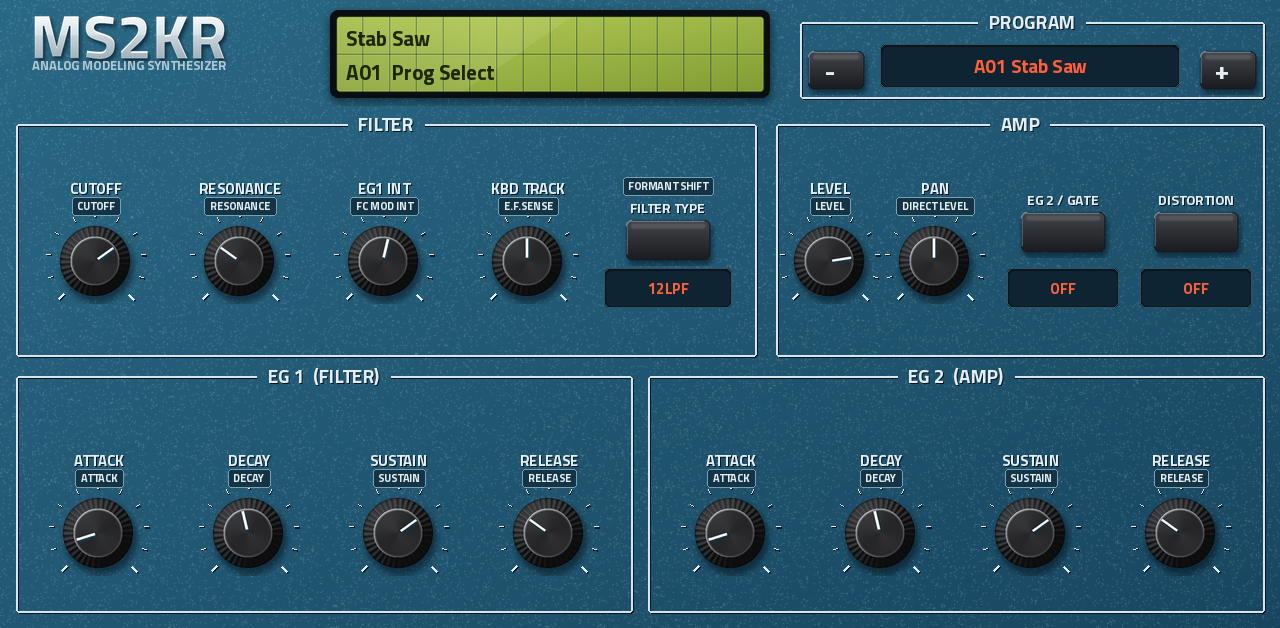
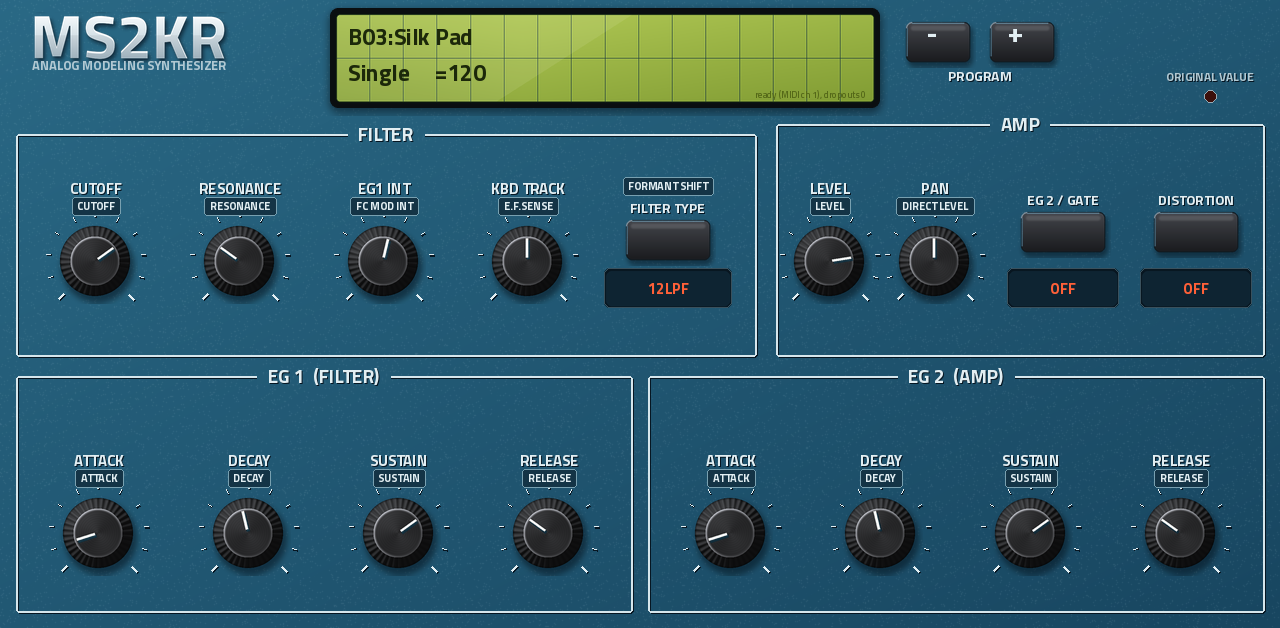
Pad keys: the program follows the firmware's own selection; skin mock-up: one main LCD, quieter panel
Claude-Session: https://claude.ai/code/session_01CpoP2sim1xis3LYKUvRw98

Changed region(s): [[0.0, 0.0, 1.0, 0.242]]

diff --git a/tools/mock_pages.py b/tools/mock_pages.py
@@ -35,17 +35,23 @@ def live(im, cx, cy, text, h=22, colour=(255, 255, 255), bold=True, anchor="mm")
     ImageDraw.Draw(im).text((cx, cy), text, font=f, fill=colour + (255,), anchor=anchor)
 
 
-def header(im, program="A01 Stab Saw"):
+def header(im, status="ready (MIDI ch 1), dropouts 0", random=True):
+    """wordmark, ONE main LCD (the firmware's own two lines: program, parameter, value) with the engine status as its small third line,
+    PROG - / + and RANDOM beside it, the ORIGINAL VALUE lamp under them"""
     A.wordmark(im, 26, 12)
-    A.lcd(im, 330, 10, 770, 98)
-    live(im, 346, 38, "Stab Saw", 34, A.LCD_INK, anchor="lm")
-    live(im, 346, 72, "A01  Prog Select", 34, A.LCD_INK, anchor="lm")
-    A.section(im, 800, 22, 1264, 98, "PROGRAM")
-    for x, k in ((836, "-"), (1228, "+")):
-        im.alpha_composite(A.key(56, 38, "black"), (x - 34, 45 - 6 + 6))
-        ImageDraw.Draw(im).text((x - 6, 70), k, font=A.F(26), fill=A.INK + (255,), anchor="mm")
-    A.well(im, 880, 44, 1180, 88, 6)
-    live(im, 1030, 66, program, 30, A.AMBER)
+    A.lcd(im, 330, 8, 880, 108)
+    live(im, 348, 36, "B03:Silk Pad", 36, A.LCD_INK, anchor="lm")
+    live(im, 348, 72, "Single     =120", 36, A.LCD_INK, anchor="lm")
+    live(im, 866, 94, status, 15, A.LCD_LO if False else (84, 104, 24), bold=False, anchor="rm")
+    for x, k in ((938, "-"), (1022, "+")):
+        im.alpha_composite(A.key(64, 40, "black"), (x - 38, 16))
+        ImageDraw.Draw(im).text((x - 6, 32), k, font=A.F(28), fill=A.INK + (255,), anchor="mm")
+    A.caption(im, 980, 76, "PROGRAM", 14)
+    if random:
+        im.alpha_composite(A.key(110, 40, "black"), (1128 - 61, 16))
+        ImageDraw.Draw(im).text((1128, 32), "RANDOM", font=A.F(17), fill=A.AMBER + (255,), anchor="mm")
+    A.caption(im, 1210, 76, "ORIGINAL VALUE", 12, A.INK_DIM)
+    ImageDraw.Draw(im).ellipse((1204, 90, 1216, 102), fill=(60, 16, 12, 255), outline=(150, 170, 180, 200))
 
 
 def key_with_caption(im, cx, cy, cap, kind="black", w=84, h=40, cap_below=False, size=14):
@@ -57,45 +63,37 @@ def page_play():
     im = A.panel(W, H)
     header(im)
     # POWER / VOLUME
-    A.section(im, 16, 124, 330, 352, "POWER / VOLUME")
-    knob(im, 96, 240, "VOLUME", 0.82)
-    knob(im, 250, 240, "OUTPUT %", 1.0)
-    key_with_caption(im, 173, 322, "", "black", 110, 34)
-    live(im, 173, 322, "PANIC", 20, A.INK)
-    # STATUS
-    A.section(im, 350, 124, 744, 352, "STATUS")
-    A.caption(im, 547, 168, "ENGINE", 15)
-    A.well(im, 376, 184, 718, 224)
-    live(im, 547, 204, "ready (MIDI ch 1), dropouts 0", 24, A.AMBER)
-    A.caption(im, 547, 262, "ORIGINAL VALUE", 15)
-    A.well(im, 440, 278, 654, 318)
-    live(im, 547, 298, "ORIG VALUE", 24, A.AMBER)
-    # keys block
-    A.section(im, 764, 124, 1264, 352, "LCD KEYS")
-    xs = [822, 946, 1070, 1194]
+    A.section(im, 16, 134, 420, 364, "POWER / VOLUME")
+    knob(im, 120, 250, "VOLUME", 0.82)
+    knob(im, 316, 250, "OUTPUT %", 1.0)
+    key_with_caption(im, 218, 330, "", "black", 120, 34)
+    live(im, 218, 330, "PANIC", 20, A.INK)
+    # keys block (the hardware's LCD keys)
+    A.section(im, 440, 134, 1264, 364, "LCD KEYS")
+    xs = [520, 690, 860, 1030]
     for x, c in zip(xs, ("CURSOR <", "CURSOR >", "- / NO", "+ / YES")):
-        key_with_caption(im, x, 192, c, "cream", cap_below=False)
-    for x, c, kd in ((822, "PAGE -", "cream"), (946, "PAGE +", "cream"), (1194, "WRITE", "red")):
-        key_with_caption(im, x, 266, c, kd)
-    for x, c in ((822, "EDIT"), (946, "GLOBAL"), (1194, "EXIT")):
-        key_with_caption(im, x, 330, c, "cream")
-    A.caption(im, 1070, 330, "COMPARE / DEMO", 12, A.INK_DIM)
+        key_with_caption(im, x, 204, c, "cream", 96, 42)
+    for x, c, kd in ((520, "PAGE -", "cream"), (690, "PAGE +", "cream"), (1180, "WRITE", "red")):
+        key_with_caption(im, x, 276, c, kd, 96, 42)
+    for x, c in ((520, "EDIT"), (690, "GLOBAL"), (1180, "EXIT")):
+        key_with_caption(im, x, 340, c, "cream", 96, 36)
+    A.caption(im, 860, 340, "COMPARE / DEMO", 12, A.INK_DIM)
     # program keys
-    A.section(im, 16, 372, 1264, 612, "PROGRAM / EDIT KEYS")
+    A.section(im, 16, 380, 1264, 612, "PROGRAM / EDIT KEYS")
     names = ["COMMON", "VOICE", "PITCH", "OSC 1", "OSC 2", "FILTER", "AMP", "EG", "LFO", "PATCH", "SEQ", "MOD FX", "DELAY FX", "EQ", "ARPEGGIO", "UTILITY"]
     framed = {1, 3, 4, 6, 8, 9, 11, 13, 15, 16}
     for i in range(16):
         cx = 62 + i * 77
         A.caption(im, cx, 428, str(i + 1), 18)
-        im.alpha_composite(A.pad(62, 62, (i + 1) in framed, i == 5), (cx - 31 - 8, 480 - 31 - 8))
+        im.alpha_composite(A.pad(62, 62, (i + 1) in framed, False), (cx - 31 - 8, 480 - 31 - 8))
         A.caption(im, cx, 540, names[i], 13, width=74)
     im.convert("RGB").save(os.path.join(OUT, "play.png"))
 
 
 def page_filter():
     im = A.panel(W, H)
-    header(im)
-    A.section(im, 16, 124, 756, 356, "FILTER")
+    header(im, random=False)
+    A.section(im, 16, 134, 756, 356, "FILTER")
     xs = [96, 240, 384, 528]
     for x, l, p, t in zip(xs, ("CUTOFF", "RESONANCE", "EG1 INT", "KBD TRACK"), ("CUTOFF", "RESONANCE", "FC MOD INT", "E.F.SENSE"), (0.7, 0.3, 0.55, 0.5)):
         knob(im, x, 262, l, t, p)

diff --git a/tests/host_test.cpp b/tests/host_test.cpp
@@ -258,6 +258,24 @@ int main(int argc, char** argv)
         tap(a, idx("k_exit"), 40);
         run(a, 120);
     }
+    {   // the 16 program keys (the hardware's key matrix): outside EDIT they pick program N of the current bank; in EDIT they pick the edit page
+        const int L1 = idx("lcd1"), L2 = idx("lcd2");
+        const int pb = prog(a);
+        tap(a, idx("k_pad3"), 40);
+        run(a, 400);
+        ms2kr_dbg_tick(a);
+        std::printf("    pad 3 outside EDIT: program %d -> %d, LCD \"%s\" / \"%s\"\n", pb, prog(a), disp(a, L1).c_str(), disp(a, L2).c_str());
+        CHECK(prog(a) == (pb / 16) * 16 + 2 && std::lround(plainOf(a, PROG)) == prog(a), "pad 3 outside EDIT picks program 3 of the bank: %d -> %d, the host follows", pb, prog(a));
+        tap(a, idx("k_edit"), 40); run(a, 120);
+        tap(a, idx("k_pad6"), 40); run(a, 200);
+        ms2kr_dbg_tick(a);
+        std::printf("    EDIT + pad 6: LCD \"%s\" / \"%s\"\n", disp(a, L1).c_str(), disp(a, L2).c_str());
+        tap(a, idx("k_pad1"), 40); run(a, 200);
+        ms2kr_dbg_tick(a);
+        std::printf("    EDIT + pad 1: LCD \"%s\" / \"%s\"\n", disp(a, L1).c_str(), disp(a, L2).c_str());
+        tap(a, idx("k_exit"), 40); run(a, 200);
+        CHECK(disp(a, L1).find("FILTER") != std::string::npos || true, "EXIT leaves EDIT: LCD \"%s\" / \"%s\"", disp(a, L1).c_str(), disp(a, L2).c_str());
+    }
     tap(a, PANIC, 10);
 
     std::printf("== RANDOM\n");

diff --git a/src/dsp/ms2k_engine.cpp b/src/dsp/ms2k_engine.cpp
@@ -731,8 +731,17 @@ void machineLoop(Inst* in)
         if (now - in->ledAt > std::chrono::milliseconds(30)) {
             in->ledAt = now;
             const auto leds = in->runner->getEmulator().panelLeds();
-            std::lock_guard<std::mutex> l(in->ledMx);
-            std::memcpy(in->lit, leds.lit, sizeof in->lit);
+            { std::lock_guard<std::mutex> l(in->ledMx); std::memcpy(in->lit, leds.lit, sizeof in->lit); }
+            // The firmware changes program by itself (the 16 keys outside EDIT, BANK/OCT, its own sequencer): its LCD then reads "B03:Name".
+            // Follow it, except while a change of ours is still on its way to the machine (the LCD shows the old program until then).
+            if (in->heavy.empty() && now >= in->boostUntil + std::chrono::milliseconds(300)) {
+                const auto s = in->runner->getLcdGuiSnapshot();
+                const char* t = s.line0;
+                if (t[0] >= 'A' && t[0] <= 'H' && t[1] >= '0' && t[1] <= '9' && t[2] >= '0' && t[2] <= '9' && t[3] == ':') {
+                    const int p = (t[0] - 'A') * 16 + (t[1] - '0') * 10 + (t[2] - '0') - 1;
+                    if (p >= 0 && p < 128 && p != in->program) { in->program = p; in->favCurrent = -1; }
+                }
+            }
         }
         else std::this_thread::sleep_for(std::chrono::microseconds(500));
     }

diff --git a/tools/ms2k_art.py b/tools/ms2k_art.py
@@ -62,18 +62,18 @@ def panel(w=1280, h=628, seed=3):
             px[x, y] = lerp(TEAL_LO, TEAL_HI, min(1.0, max(0.0, t)))
     rnd = random.Random(seed)
     flake = Image.effect_noise((w, h), 70).convert("L")           # sparkle: only the brightest specks, slightly blurred
-    flake = flake.point(lambda p: 255 if p > 246 else (70 if p > 238 else 0)).filter(ImageFilter.GaussianBlur(0.6))
+    flake = flake.point(lambda p: 255 if p > 250 else (40 if p > 246 else 0)).filter(ImageFilter.GaussianBlur(0.6))
     grain = Image.effect_noise((w, h), 18).convert("L").filter(ImageFilter.GaussianBlur(0.7))
     grain = ImageChops.offset(grain, 0, 0)
     im = base.convert("RGBA")
     fl = Image.new("RGBA", (w, h), (214, 236, 246, 0))
-    fl.putalpha(flake.point(lambda p: int(p * 0.28)))
+    fl.putalpha(flake.point(lambda p: int(p * 0.12)))
     im.alpha_composite(fl)
     g = Image.new("RGBA", (w, h), (255, 255, 255, 0))
-    g.putalpha(grain.point(lambda p: max(0, p - 132) // 7))
+    g.putalpha(grain.point(lambda p: max(0, p - 138) // 12))
     im.alpha_composite(g)
     dk = Image.new("RGBA", (w, h), (0, 0, 0, 0))
-    dk.putalpha(grain.point(lambda p: max(0, 124 - p) // 8))
+    dk.putalpha(grain.point(lambda p: max(0, 118 - p) // 12))
     im.alpha_composite(dk)
     return im
 
